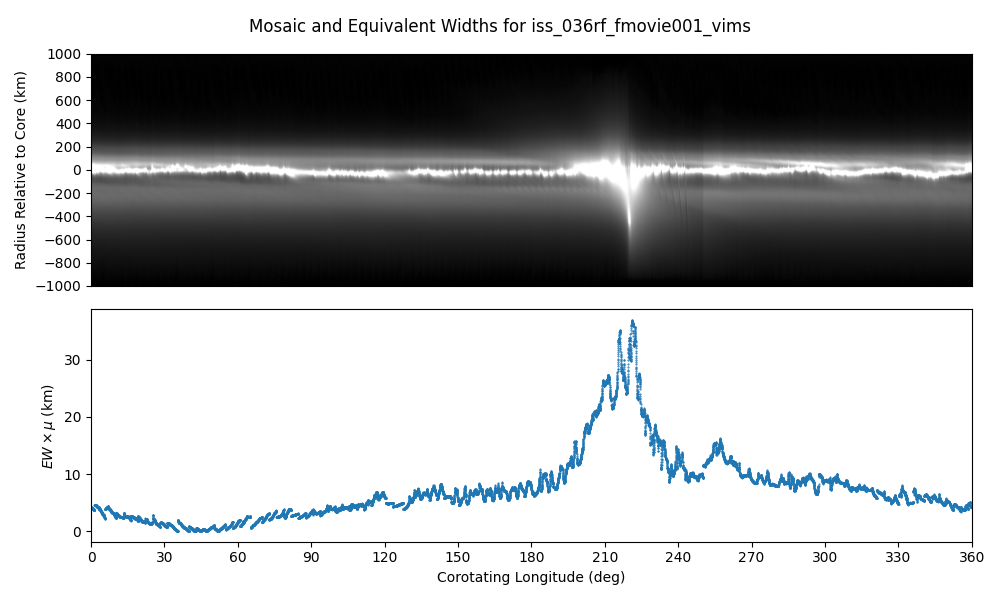
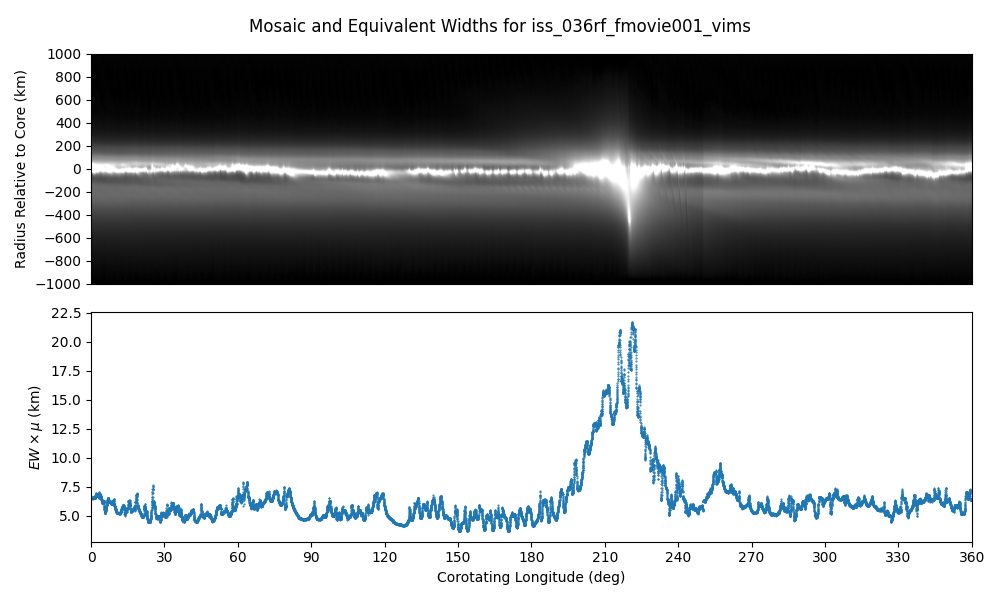
Refresh every user guide example against a rebuilt bundle (G3, G9)
Regenerated ISS_111RF_FMOVIE002_PRIME and IOSIC_276RB_COMPLITB3001_SI into a
scratch bundle with the current generator and templates, then re-captured all
six verbatim excerpts in section 4.2 from that build. Every excerpt now comes
from one image, 1622049830n of iss_111rf_fmovie002_prime, and the surrounding
prose says so.

- Reprojection geometry excerpt: real angles, radii and resolutions for
  1622049830n, replacing values that belonged to a different image, and with
  the two sampling intervals on the single lines the label actually uses
  instead of hand-inserted continuation lines.
- File_Area excerpt: current creation time, file size, md5 and 649 samples,
  plus the axis <description> the templates now emit and the label's own axis
  comments.
- Reprojected-image and mosaic metadata table rows and the source-image list:
  re-captured, so the printed inertial longitudes and true anomalies again
  follow from section 3.4.1's conversion.
- Supplemental file excerpt: 1736795703n is not in the bundle; replaced with
  1622049830n, whose boresight and C-matrix come from the corrected roll
  measurement.

Also:
- Replaced the plot_ews screenshot. The old one was taken before commit
  272b528 fixed np.cos(mosaic_emission) to np.cos(np.radians(...)), so it
  plotted the cosine of degrees read as radians: mu swung from 1 through 0
  across the observation's 3.1 degrees of emission angle, giving a spurious
  peak of 36 km and a dip to zero near 45 degrees. The mosaic data is
[…]

diff --git a/user_guide/sections/04-bundle-organization-and-directory-structure.tex b/user_guide/sections/04-bundle-organization-and-directory-structure.tex
@@ -85,38 +85,36 @@ data_reproj_img/
 └── ...
 \end{CodeBlock}
 
-The file \code{IMGID\_\allowbreak{}reproj\_\allowbreak{}img.\allowbreak{}lblx} contains all of the details about the reprojected image, including the reprojection and viewing geometry:
+The file \code{IMGID\_\allowbreak{}reproj\_\allowbreak{}img.\allowbreak{}lblx} contains all of the details about the reprojected image, including the reprojection and viewing geometry. Every excerpt in this section is taken from image \code{1622049830n} of observation \code{iss\_\allowbreak{}111rf\_\allowbreak{}fmovie002\_\allowbreak{}prime}:
 
 \begin{CodeBlock}[fontsize=\scriptsize]
 <rings:epoch_reprojection_basis_utc>2007-01-01T00:00:00.000Z</rings:epoch_reprojection_basis_utc>
 <rings:reprojection_plane>Equator</rings:reprojection_plane>
 <rings:corotating_flag>Y</rings:corotating_flag>
 <rings:corotation_rate unit="deg/s">0.006735694444</rings:corotation_rate> <!-- 581.964 deg/day -->
-<rings:mean_phase_angle unit="deg">36.119</rings:mean_phase_angle>
-<rings:minimum_phase_angle unit="deg">35.990</rings:minimum_phase_angle>
-<rings:maximum_phase_angle unit="deg">36.182</rings:maximum_phase_angle>
-<rings:mean_incidence_angle unit="deg">88.821</rings:mean_incidence_angle>
-<rings:minimum_incidence_angle unit="deg">88.821</rings:minimum_incidence_angle>
-<rings:maximum_incidence_angle unit="deg">88.821</rings:maximum_incidence_angle>
-<rings:mean_emission_angle unit="deg">97.421</rings:mean_emission_angle>
-<rings:minimum_emission_angle unit="deg">97.200</rings:minimum_emission_angle>
-<rings:maximum_emission_angle unit="deg">97.651</rings:maximum_emission_angle>
-<rings:minimum_corotating_ring_longitude unit="deg">286.14</rings:minimum_corotating_ring_longitude>
-<rings:maximum_corotating_ring_longitude unit="deg">308.60</rings:maximum_corotating_ring_longitude>
-<rings:minimum_ring_radius unit="km">138894.242</rings:minimum_ring_radius>
-<rings:maximum_ring_radius unit="km">140934.268</rings:maximum_ring_radius>
+<rings:mean_phase_angle unit="deg">34.334</rings:mean_phase_angle>
+<rings:minimum_phase_angle unit="deg">34.208</rings:minimum_phase_angle>
+<rings:maximum_phase_angle unit="deg">34.373</rings:maximum_phase_angle>
+<rings:mean_incidence_angle unit="deg">88.824</rings:mean_incidence_angle>
+<rings:minimum_incidence_angle unit="deg">88.824</rings:minimum_incidence_angle>
+<rings:maximum_incidence_angle unit="deg">88.824</rings:maximum_incidence_angle>
+<rings:mean_emission_angle unit="deg">103.117</rings:mean_emission_angle>
+<rings:minimum_emission_angle unit="deg">102.901</rings:minimum_emission_angle>
+<rings:maximum_emission_angle unit="deg">103.339</rings:maximum_emission_angle>
+<rings:minimum_corotating_ring_longitude unit="deg">186.60</rings:minimum_corotating_ring_longitude>
+<rings:maximum_corotating_ring_longitude unit="deg">199.56</rings:maximum_corotating_ring_longitude>
+<rings:minimum_ring_radius unit="km">138896.295</rings:minimum_ring_radius>
+<rings:maximum_ring_radius unit="km">140916.702</rings:maximum_ring_radius>
 <rings:Reprojection_Grid_Parameters>
     <local_identifier>reproj_grid</local_identifier>
-    <rings:reprojection_grid_radial_sampling_interval unit="km">
-        5.0</rings:reprojection_grid_radial_sampling_interval>
-    <rings:reprojection_grid_longitudinal_sampling_interval unit="deg">
-        0.02</rings:reprojection_grid_longitudinal_sampling_interval>
-    <rings:minimum_radial_resolution unit="km">5.390</rings:minimum_radial_resolution>
-    <rings:maximum_radial_resolution unit="km">9.827</rings:maximum_radial_resolution>
-    <rings:mean_radial_resolution unit="km">7.001</rings:mean_radial_resolution>
-    <rings:minimum_longitudinal_resolution unit="deg">0.016</rings:minimum_longitudinal_resolution>
-    <rings:maximum_longitudinal_resolution unit="deg">0.018</rings:maximum_longitudinal_resolution>
-    <rings:mean_longitudinal_resolution unit="deg">0.017</rings:mean_longitudinal_resolution>
+    <rings:reprojection_grid_radial_sampling_interval unit="km">5.0</rings:reprojection_grid_radial_sampling_interval>
+    <rings:reprojection_grid_longitudinal_sampling_interval unit="deg">0.02</rings:reprojection_grid_longitudinal_sampling_interval>
+    <rings:minimum_radial_resolution unit="km">5.613</rings:minimum_radial_resolution>
+    <rings:maximum_radial_resolution unit="km">6.487</rings:maximum_radial_resolution>
+    <rings:mean_radial_resolution unit="km">5.853</rings:mean_radial_resolution>
+    <rings:minimum_longitudinal_resolution unit="deg">0.00963</rings:minimum_longitudinal_resolution>
+    <rings:maximum_longitudinal_resolution unit="deg">0.01046</rings:maximum_longitudinal_resolution>
+    <rings:mean_longitudinal_resolution unit="deg">0.01007</rings:mean_longitudinal_resolution>
 </rings:Reprojection_Grid_Parameters>
 \end{CodeBlock}
 
@@ -126,9 +124,9 @@ and the details of the image file, \code{IMGID\_\allowbreak{}reproj\_\allowbreak
 <File_Area_Observational>
     <File>
         <file_name>1622049830n_reproj_img.img</file_name>
-        <creation_date_time>2025-07-25T22:48:10Z</creation_date_time>
-        <file_size unit="byte">1050620</file_size>
-        <md5_checksum>ad24ba420a8705285effa703a950b61e</md5_checksum>
+        <creation_date_time>2026-09-08T19:31:25Z</creation_date_time>
+        <file_size unit="byte">1040996</file_size>
+        <md5_checksum>3d19ed500563eab78063a95eb57cbdd1</md5_checksum>
     </File>
     <!-- The calibrated, reprojected single image -->
     <Array_2D_Image>
@@ -136,24 +134,34 @@ and the details of the image file, \code{IMGID\_\allowbreak{}reproj\_\allowbreak
         <offset unit="byte">0</offset>
         <axes>2</axes>
         <axis_index_order>Last Index Fastest</axis_index_order>
+        <description>
+            Line is the radial axis and Sample is the co-rotating longitude axis.
+            Line 0 is the innermost row, at a delta radius of -1000 km from the
+            F ring core, and the delta radius increases outward by 5 km per line,
+            so that delta radius = -1000 + 5 * Line km and the modeled core lies
+            at Line 200. Sample 0 is the minimum co-rotating longitude given by
+            rings:minimum_corotating_ring_longitude and the longitude increases
+            by 0.02 degrees per sample, wrapping through 360 degrees when the
+            minimum is greater than the maximum.
+        </description>
         <Element_Array>
             <data_type>IEEE754LSBSingle</data_type>
             <unit>I/F</unit>
         </Element_Array>
         <Axis_Array>
-            <axis_name>Line</axis_name> <!-- vertical (radial) -->
+            <axis_name>Line</axis_name> <!-- vertical (delta radius) -->
             <elements>401</elements>
             <sequence_number>1</sequence_number>
         </Axis_Array>
         <Axis_Array>
-            <axis_name>Sample</axis_name> <!-- horizontal (longitude) -->
-            <elements>655</elements>
+            <axis_name>Sample</axis_name> <!-- horizontal (co-rotating longitude) -->
+            <elements>649</elements>
             <sequence_number>2</sequence_number>
         </Axis_Array>
         <Special_Constants>
             <!-- Data was missing or corrupted in the original image (either because it was off
-                the edge of the FOV or because of a transmission error resulting in a partial or
-                corrupted image) -->
+             the edge of the FOV or because of a transmission error resulting in a partial or
+             corrupted image) -->
             <missing_constant>-999</missing_constant>
         </Special_Constants>
     </Array_2D_Image>
@@ -166,11 +174,12 @@ An associated metadata file, \code{IMGID\_\allowbreak{}reproj\_\allowbreak{}img\
 
 \begin{CodeBlock}[fontsize=\scriptsize]
 rings:corotating_ring_longitude,rings:observed_event_tdb,rings:inertial_ring_longitude,rings:radial_resolution,rings:longitudinal_resolution,rings:incidence_angle,rings:phase_angle,rings:emission_angle,core_radius,longitude_ascending_node,longitude_pericenter,true_anomaly,corotating_longitude_prometheus,radius_prometheus,corotating_longitude_pandora,radius_pandora
-320.08, 558091398.772, 101.729,    5.232,  0.00010,  63.312, 129.712,  67.484, 140188.617, 293.578, 186.171, 275.558, 177.733, 139483.579,  23.223, 141253.549
-320.10, 558091398.772, 101.749,    5.233,  0.00010,  63.312, 129.711,  67.483, 140188.503, 293.578, 186.171, 275.578, 177.733, 139483.579,  23.223, 141253.549
-320.12, 558091398.772, 101.769,    5.233,  0.00010,  63.312, 129.710,  67.482, 140188.389, 293.578, 186.171, 275.598, 177.733, 139483.579,  23.223, 141253.549
-320.14, 558091398.772, 101.789,    5.233,  0.00010,  63.312, 129.709,  67.481, 140188.274, 293.578, 186.171, 275.618, 177.733, 139483.579,  23.223, 141253.549
-320.16, 558091398.772, 101.809,    5.233,  0.00010,  63.312, 129.707,  67.479, 140188.160, 293.578, 186.171, 275.638, 177.733, 139483.579,  23.223, 141253.549[...]
+186.60, 296628214.587, 272.212,    6.487,  0.00963,  88.824,  34.369, 103.339, 139916.702, 147.322, 294.690, 337.522, 274.743, 139453.621,  68.058, 141137.545
+186.62, 296628214.587, 272.232,    6.484,  0.00963,  88.824,  34.369, 103.339, 139916.658, 147.322, 294.690, 337.542, 274.743, 139453.621,  68.058, 141137.545
+186.64, 296628214.587, 272.252,    6.480,  0.00964,  88.824,  34.368, 103.338, 139916.614, 147.322, 294.690, 337.562, 274.743, 139453.621,  68.058, 141137.545
+186.66, 296628214.587, 272.272,    6.477,  0.00964,  88.824,  34.368, 103.337, 139916.571, 147.322, 294.690, 337.582, 274.743, 139453.621,  68.058, 141137.545
+186.68, 296628214.587, 272.292,    6.473,  0.00964,  88.824,  34.367, 103.337, 139916.527, 147.322, 294.690, 337.602, 274.743, 139453.621,  68.058, 141137.545
+[...]
 \end{CodeBlock}
 
 where the rows are in ascending corotating-longitude order and cover only the longitudes that contain valid data. Because a reprojected image that wraps around at 360° is stored starting at its minimum corotating longitude and continuing through 360° to its maximum (see Section~\ref{sec:reprojection}), and because the image may retain sentinel-filled columns at longitudes with no valid data, the rows do \textit{not} necessarily correspond one-to-one, in sequence, to the X indices of the image array; to associate a row with an image column, use the corotating ring longitude field instead of the row position. The column holding a given corotating longitude is \code{col = round(((longitude − min\_\allowbreak{}corotating\_\allowbreak{}ring\_\allowbreak{}longitude) mod 360) / 0.\allowbreak{}02)}, and column \textit{c} holds longitude \code{(min\_\allowbreak{}corotating\_\allowbreak{}ring\_\allowbreak{}longitude + 0.\allowbreak{}02 × c) mod 360}; the modulo handles the wraparound case (Section~\ref{sec:reading-labels-and-data-product-files}). This table gives the actual corotating longitude for each row as well as additional useful information such as the inertial longitude, radial resolution, angular (longitudinal) resolution, phase angle, emission angle, and various orbital parameters. See Sections~\ref{sec:reprojection} and \ref{sec:metadata-and-global-index-file-fields} for details about these fields and Section~\ref{sec:reading-labels-and-data-product-files} for information on how to read these files with software.
@@ -181,24 +190,24 @@ Finally, a supplemental information file, \code{IMGID\_\allowbreak{}reproj\_\all
 This file contains a C-matrix that describes the rotation from the J2000 reference
 frame to the camera pointing based upon analysis of the contents of the image.
 
-Source Data Product ID = 1736795703n_calib
-Image Start Time (SCLK) = 1/1736795701.243
-Image Start Time (UTC) = 2013-01-13T18:20:56.381Z
-Image Mid Time (SCLK) = 1/1736795702.180
-Image Mid Time (UTC) = 2013-01-13T18:20:57.131Z
-Image Stop Time (SCLK) = 1/1736795703.118
-Image Stop Time (UTC) = 2013-01-13T18:20:57.881Z
+Source Data Product ID = 1622049830n_calib
+Image Start Time (SCLK) = 1/1622049829.163
+Image Start Time (UTC) = 2009-05-26T16:42:27.992Z
+Image Mid Time (SCLK) = 1/1622049830.012
+Image Mid Time (UTC) = 2009-05-26T16:42:28.402Z
+Image Stop Time (SCLK) = 1/1622049830.118
+Image Stop Time (UTC) = 2009-05-26T16:42:28.812Z
 Trajectory Kernels Query Time = Observation mid time
 Stellar Aberration Correction = No
 Light Travel Time Correction = No
-Navigation Type = Ring and/or Satellite Models
-Navigated Boresight RA = 287.227 deg (19h08m54.446s)
-Navigated Boresight Dec = 46.7338 deg (+046d44m1.850s)
-Navigated Boresight Roll = 22.6952 deg
+Navigation Type = Stars
+Navigated Boresight RA = 142.804 deg (09h31m13.028s)
+Navigated Boresight Dec = -11.8016 deg (-011d48m05.706s)
+Navigated Boresight Roll = -44.9209 deg
 C-Matrix =
-    0.7979776914    0.5415732280    0.2644428914
-   -0.5674768892    0.5273925427    0.6323188168
-    0.2029817339   -0.6546415390    0.7281777744
+   -0.3130222448   -0.6513481158   -0.6912038095
+   -0.5422429512   -0.4749368367    0.6931144083
+   -0.7797369147    0.5917606215   -0.2045231298
 \end{CodeBlock}
 
 This pointing information is only provided for archival completeness and is not expected to be used by most scientific users.
@@ -265,11 +274,11 @@ The \code{OBSID1\_\allowbreak{}mosaic[\_\allowbreak{}bkg\_\allowbreak{}sub]\_\al
 
 \begin{CodeBlock}[fontsize=\scriptsize]
 rings:corotating_ring_longitude,image_index,rings:observed_event_tdb,rings:inertial_ring_longitude,rings:radial_resolution,rings:longitudinal_resolution,rings:incidence_angle,rings:phase_angle,rings:emission_angle,core_radius,longitude_ascending_node,longitude_pericenter,true_anomaly,corotating_longitude_prometheus,radius_prometheus,corotating_longitude_pandora,radius_pandora
-308.04,    8, 558093184.000,  81.866,    5.175,  0.00010,  63.312, 129.427,  67.248, 140302.302, 293.523, 186.227, 255.639, 177.819, 139542.008,  23.103, 141339.852
-308.06,    8, 558093184.000,  81.886,    5.175,  0.00010,  63.312, 129.426,  67.247, 140302.190, 293.523, 186.227, 255.659, 177.819, 139542.008,  23.103, 141339.852
-308.08,    8, 558093184.000,  81.906,    5.175,  0.00010,  63.312, 129.425,  67.245, 140302.078, 293.523, 186.227, 255.679, 177.819, 139542.008,  23.103, 141339.852
-308.10,    8, 558093184.000,  81.926,    5.176,  0.00010,  63.312, 129.423,  67.244, 140301.967, 293.523, 186.227, 255.699, 177.819, 139542.008,  23.103, 141339.852
-308.12,    8, 558093184.000,  81.946,    5.176,  0.00010,  63.312, 129.422,  67.243, 140301.855, 293.523, 186.227, 255.719, 177.819, 139542.008,  23.103, 141339.852
+  4.60,    8, 296602047.773, 273.960,    5.289,  0.03542,  88.824,  38.053,  93.478, 139911.390, 148.136, 293.872, 340.088, 273.628, 139319.213,  70.526, 142262.214
+  4.62,    8, 296602047.773, 273.980,    5.286,  0.03542,  88.824,  38.053,  93.477, 139911.351, 148.136, 293.872, 340.108, 273.628, 139319.213,  70.526, 142262.214
+  4.64,    8, 296602047.773, 274.000,    5.282,  0.03543,  88.824,  38.053,  93.477, 139911.312, 148.136, 293.872, 340.128, 273.628, 139319.213,  70.526, 142262.214
+  4.66,    8, 296602047.773, 274.020,    5.279,  0.03543,  88.824,  38.053,  93.477, 139911.273, 148.136, 293.872, 340.148, 273.628, 139319.213,  70.526, 142262.214
+  4.68,    8, 296602047.773, 274.040,    5.276,  0.03543,  88.824,  38.053,  93.477, 139911.234, 148.136, 293.872, 340.168, 273.628, 139319.213,  70.526, 142262.214
 [...]
 \end{CodeBlock}
 
@@ -282,7 +291,7 @@ image_index,LIDVID
    0, urn:nasa:pds:cassini_iss_fring_mosaics_rsfrench2025:data_reproj_img:1622022571n_reproj_img::1.0
    1, urn:nasa:pds:cassini_iss_fring_mosaics_rsfrench2025:data_reproj_img:1622022704n_reproj_img::1.0
    2, urn:nasa:pds:cassini_iss_fring_mosaics_rsfrench2025:data_reproj_img:1622022841n_reproj_img::1.0
-[…]
+[...]
 \end{CodeBlock}
 
 While all of these files are in fixed-width format for rapid reading with appropriate software, they can also be read as if they were CSV files by standard spreadsheet software. In this case you must specify that the file is delimited by commas.

diff --git a/user_guide/sections/07-metadata-and-global-index-file-fields.tex b/user_guide/sections/07-metadata-and-global-index-file-fields.tex
@@ -66,7 +66,7 @@ The following fields appear in \code{global\_\allowbreak{}reproj\_\allowbreak{}i
 \hline
 \code{file\_\allowbreak{}spec} & The path to the reprojected image label file relative to the bundle root, \textit{e.g.} \code{data\_\allowbreak{}reproj\_\allowbreak{}img/\allowbreak{}iosic\_\allowbreak{}276rb\_\allowbreak{}complitb3001\_\allowbreak{}si/\allowbreak{}}\newline \code{1874525875w\_\allowbreak{}reproj\_\allowbreak{}img.\allowbreak{}lblx} \\
 \hline
-\code{pds:\allowbreak{}start\_\allowbreak{}date\_\allowbreak{}time} & The start time of the source image exposure, \textit{e.g.} \code{2017-05-26T20:\allowbreak{}29:\allowbreak{}10Z} \\
+\code{pds:\allowbreak{}start\_\allowbreak{}date\_\allowbreak{}time} & The start time of the source image exposure, \textit{e.g.} \code{2017-05-26T20:\allowbreak{}29:\allowbreak{}09Z} \\
 \hline
 \code{pds:\allowbreak{}stop\_\allowbreak{}date\_\allowbreak{}time} & The stop time of the source image exposure \\
 \hline
@@ -162,7 +162,7 @@ The following fields appear in \code{global\_\allowbreak{}mosaic\_\allowbreak{}i
 \hline
 \code{file\_\allowbreak{}spec} & The path to the mosaic label file relative to the bundle root, \textit{e.g.} \code{data\_\allowbreak{}mosaic/\allowbreak{}iosic\_\allowbreak{}276rb\_\allowbreak{}complitb3001\_\allowbreak{}si/\allowbreak{}iosic\_\allowbreak{}276rb\_\allowbreak{}complitb3001\_\allowbreak{}si\_\allowbreak{}mosaic.\allowbreak{}lblx} \\
 \hline
-\code{pds:\allowbreak{}start\_\allowbreak{}date\_\allowbreak{}time} & The start time of the earliest source image exposure, \textit{e.g.} \code{2017-05-26T20:\allowbreak{}29:\allowbreak{}10Z} \\
+\code{pds:\allowbreak{}start\_\allowbreak{}date\_\allowbreak{}time} & The start time of the earliest source image exposure, \textit{e.g.} \code{2017-05-26T20:\allowbreak{}29:\allowbreak{}09Z} \\
 \hline
 \code{pds:\allowbreak{}stop\_\allowbreak{}date\_\allowbreak{}time} & The stop time of the latest source image exposure \\
 \hline

diff --git a/user_guide/sections/03-image-selection-and-processing.tex b/user_guide/sections/03-image-selection-and-processing.tex
@@ -249,7 +249,7 @@ A reprojected image that did not contribute to the mosaic is not listed in the m
 \noindent\includegraphics[width=\linewidth]{figures/fig3a-m3-mosaic-1.png}\\[2pt]
 \noindent\includegraphics[width=\linewidth]{figures/fig3b-m3-mosaic-2.png}\\[2pt]
 \noindent\includegraphics[width=\linewidth]{figures/fig3c-m3-mosaic-3.png}
-\caption{A series of observations covering the same corotating longitudes but taken at successively increasing inertial longitudes. \code{iss\_\allowbreak{}105ri\_\allowbreak{}tmapn45lp001\_\allowbreak{}cirs\_\allowbreak{}1} (top) was taken at 78°–130°; \code{iss\_\allowbreak{}105ri\_\allowbreak{}tmapn45lp001\_\allowbreak{}cirs\_\allowbreak{}2} (middle) at 109°–154°; \code{iss\_\allowbreak{}105ri\_\allowbreak{}tmapn45lp001\_\allowbreak{}cirs\_\allowbreak{}3} (bottom) at 136°–186°. (Flag M3.)}
+\caption{A series of observations covering the same corotating longitudes but taken at successively increasing inertial longitudes. \code{iss\_\allowbreak{}105ri\_\allowbreak{}tmapn45lp001\_\allowbreak{}cirs\_\allowbreak{}1} (top) was taken at 79°–131°; \code{iss\_\allowbreak{}105ri\_\allowbreak{}tmapn45lp001\_\allowbreak{}cirs\_\allowbreak{}2} (middle) at 109°–155°; \code{iss\_\allowbreak{}105ri\_\allowbreak{}tmapn45lp001\_\allowbreak{}cirs\_\allowbreak{}3} (bottom) at 136°–186°. (Flag M3.)}
 \label{fig:m3-mosaics}
 \end{figure}
 
